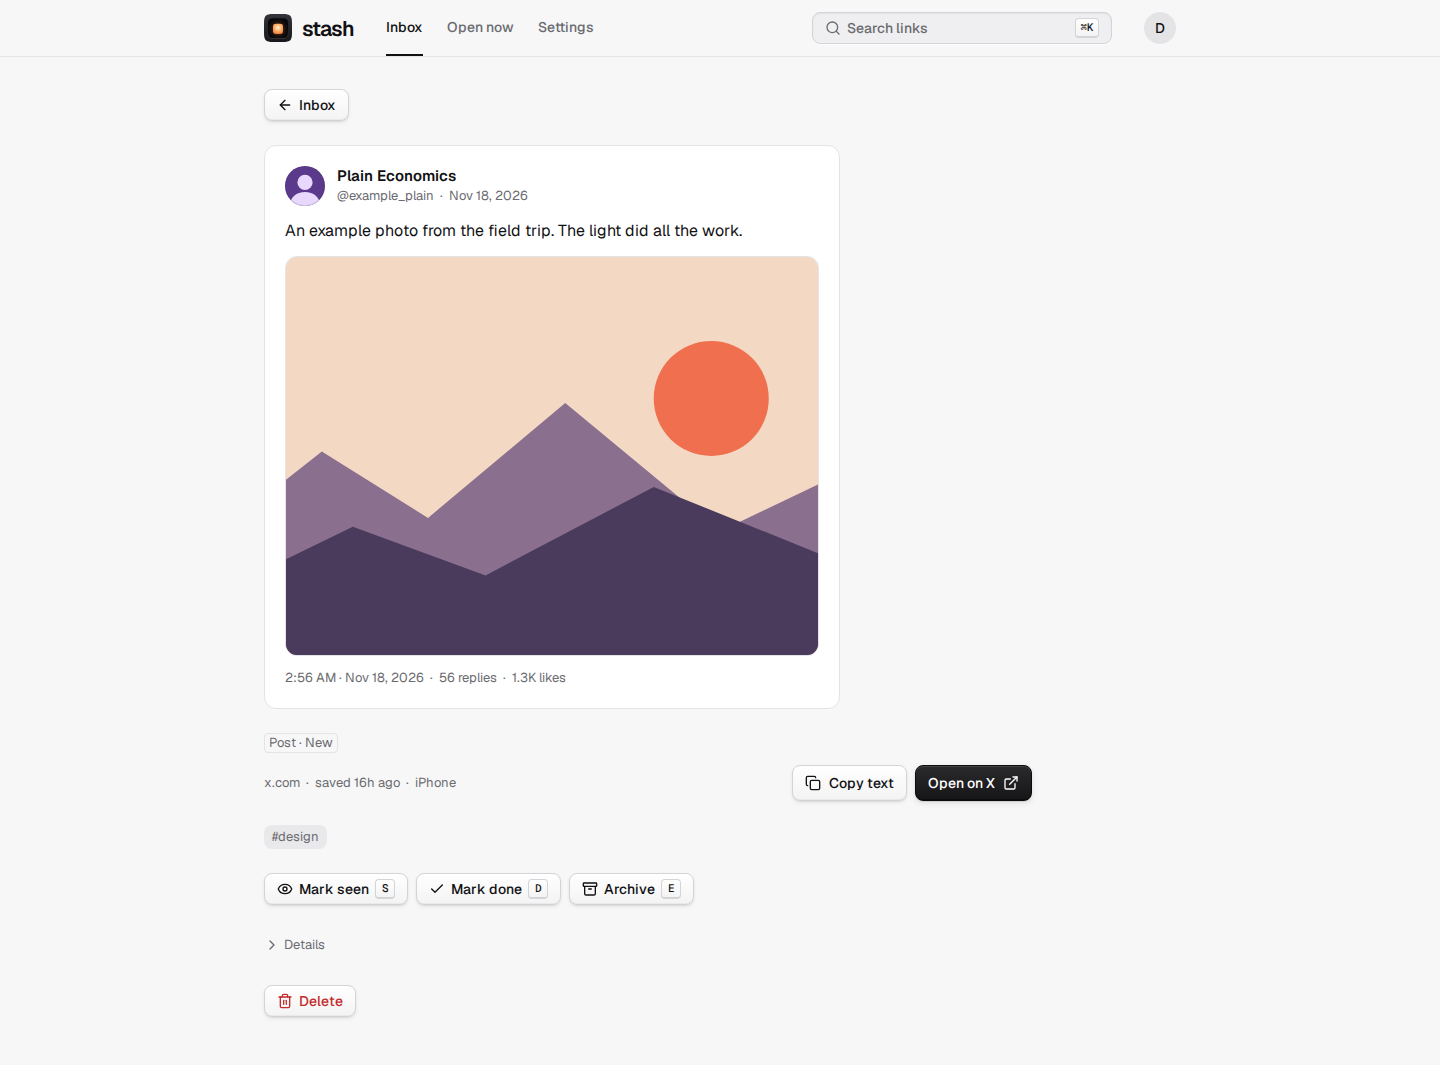
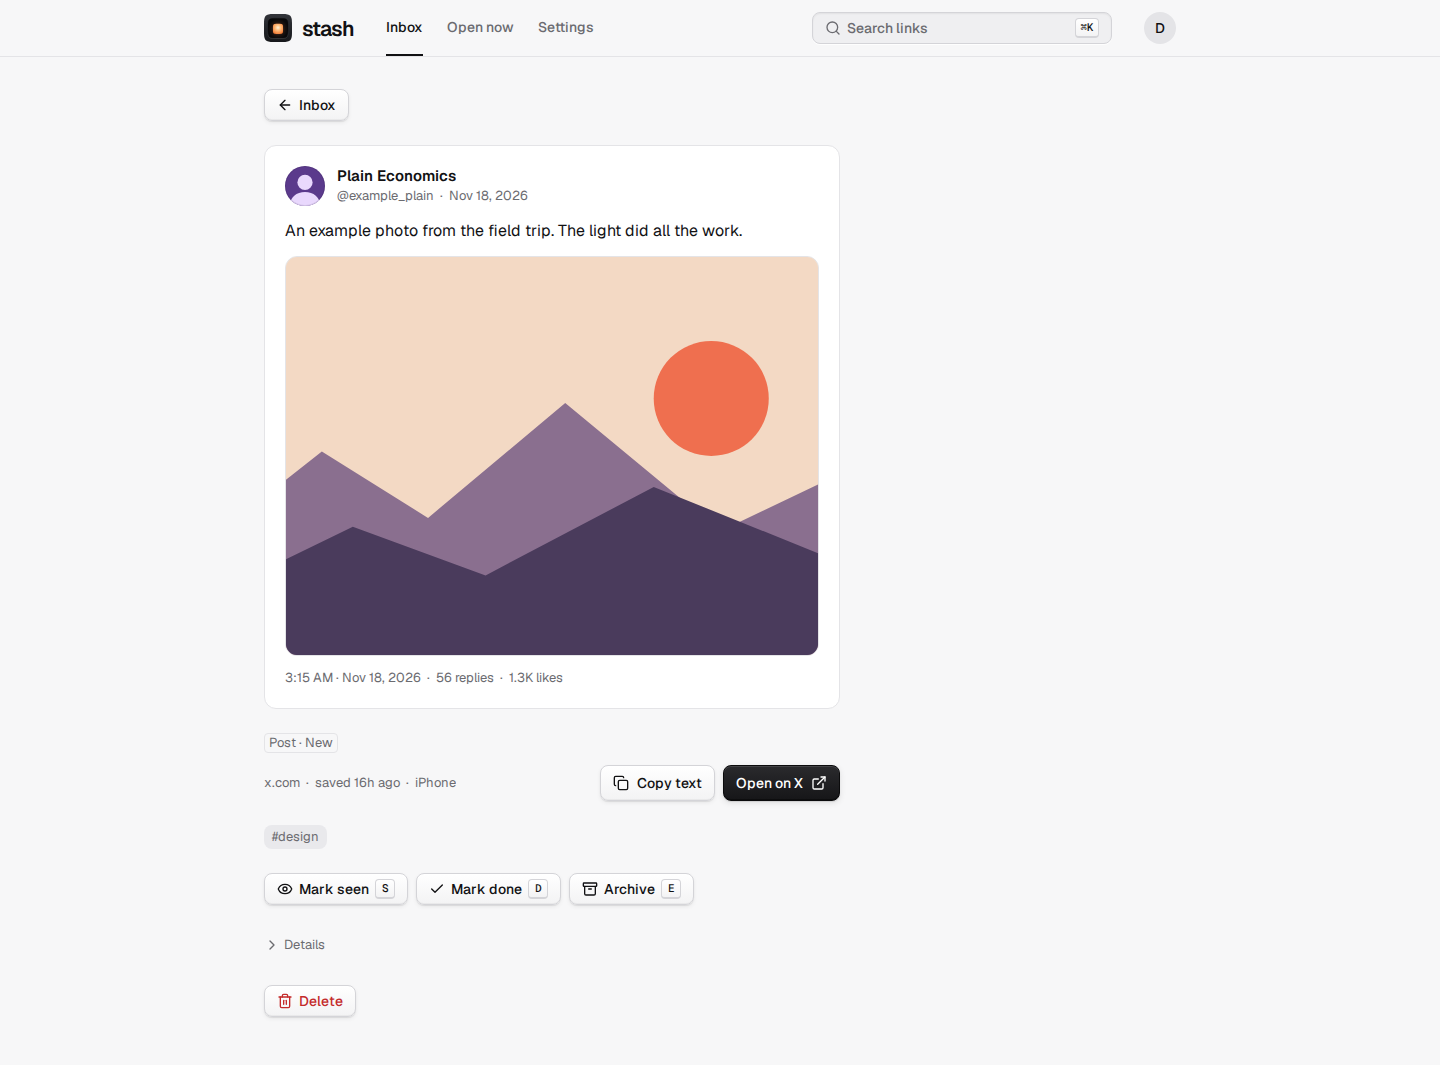
web, backend: sandbox the post video frame, review follow-ups (#170)
The video's srcdoc frame is sandboxed without allow-same-origin, so its document has an opaque
origin. A post row's unread dot is on its first line, the handle truncates before the name, and a
post page's actions end where its card does. A post saved as /i/status/<id> gets the handle's URL
as its dedupe key once the post is read. The list of X hosts lives once, in backend-links, and
has m.twitter.com.

Changed region(s): [[0.4062, 0.7127, 0.7188, 0.7746], [0.1875, 0.6197, 0.4062, 0.6507]]

diff --git a/packages/web/ui/src/media-row/media-row.vue b/packages/web/ui/src/media-row/media-row.vue
@@ -67,6 +67,9 @@ defineSlots<{
 // edges there. In the meta line only an item marked `data-shrink` (a channel, an author) gives
 // way: its shrink factor is so large that the first item (the host) stays whole until there is
 // nothing left of it, and only then truncates too.
+
+const metaLine =
+  "flex h-5 min-w-0 items-center overflow-hidden text-meta whitespace-nowrap text-muted-foreground [&>*]:shrink-0 [&>[data-shrink]]:min-w-0 [&>[data-shrink]]:shrink-[1000000] [&>[data-shrink]]:truncate [&>*+*]:before:mx-1.5 [&>*+*]:before:content-['·'] [&>*:first-child]:min-w-0 [&>*:first-child]:shrink [&>*:first-child]:truncate";
 </script>
 
 <template>
@@ -104,7 +107,7 @@ defineSlots<{
       "
     >
       <span
-        v-if="unread"
+        v-if="unread && !metaFirst"
         data-slot="media-row-unread"
         role="img"
         aria-label="Not yet seen"
@@ -112,14 +115,27 @@ defineSlots<{
       />
       <slot name="title" />
     </div>
+    <!-- A `metaFirst` row's first line is the meta line, so its dot is there, where every row's is. -->
     <div
+      v-if="metaFirst"
+      data-slot="media-row-meta-line"
+      class="col-start-2 row-start-1 flex h-5 min-w-0 items-center gap-2"
+    >
+      <span
+        v-if="unread"
+        data-slot="media-row-unread"
+        role="img"
+        aria-label="Not yet seen"
+        class="size-1.5 shrink-0 rounded-full bg-signal"
+      />
+      <div data-slot="media-row-meta" :class="cn(metaLine, 'flex-1')">
+        <slot name="meta" />
+      </div>
+    </div>
+    <div
+      v-else
       data-slot="media-row-meta"
-      :class="
-        cn(
-          'col-start-2 flex h-5 min-w-0 items-center overflow-hidden text-meta whitespace-nowrap text-muted-foreground [&>*]:shrink-0 [&>[data-shrink]]:min-w-0 [&>[data-shrink]]:shrink-[1000000] [&>[data-shrink]]:truncate [&>*+*]:before:mx-1.5 [&>*+*]:before:content-[\'·\'] [&>*:first-child]:min-w-0 [&>*:first-child]:shrink [&>*:first-child]:truncate',
-          metaFirst ? 'row-start-1' : 'row-start-2 self-start',
-        )
-      "
+      :class="cn(metaLine, 'col-start-2 row-start-2 self-start')"
     >
       <slot name="meta" />
     </div>

diff --git a/packages/web/ui/test/post.test.ts b/packages/web/ui/test/post.test.ts
@@ -53,7 +53,21 @@ describe("MediaRow for a post", () => {
     });
     expect(row.attributes("data-meta-first")).toBe("");
     expect(row.classes()).toContain("sm:grid-rows-[20px_20px_20px_24px]");
-    expect(row.find("[data-slot=media-row-meta]").classes()).toContain("row-start-1");
+    const first = row.find("[data-slot=media-row-meta-line]");
+    expect(first.classes()).toContain("row-start-1");
+    expect(first.find("[data-slot=media-row-meta]").text()).toBe("Author");
+    // Read: no dot. Unread: the dot is on this first line, as on every row.
+    expect(first.find("[data-slot=media-row-unread]").exists()).toBe(false);
+    const unread = mount(MediaRow, {
+      props: { metaFirst: true, unread: true },
+      slots: { title: "<a>Words</a>", meta: "<span>Author</span>" },
+    });
+    expect(
+      unread.find("[data-slot=media-row-meta-line] > [data-slot=media-row-unread]").exists(),
+    ).toBe(true);
+    expect(
+      unread.find("[data-slot=media-row-title-line] [data-slot=media-row-unread]").exists(),
+    ).toBe(false);
     const title = row.find("[data-slot=media-row-title-line]");
     expect(title.classes()).toEqual(
       expect.arrayContaining(["row-start-2", "sm:row-span-2", "sm:h-10"]),
@@ -224,7 +238,11 @@ describe("PostMedia", () => {
       "no-referrer",
     );
     await media.find("[data-slot=post-video-play]").trigger("click");
-    const srcdoc = media.find("[data-slot=post-video-player]").attributes("srcdoc") ?? "";
+    const frame = media.find("[data-slot=post-video-player]");
+    // An opaque origin: the frame's document cannot reach the app (no `allow-same-origin`).
+    expect(frame.attributes("sandbox")).toBe("allow-scripts");
+    expect(frame.attributes("allow")).toContain("fullscreen");
+    const srcdoc = frame.attributes("srcdoc") ?? "";
     expect(srcdoc).toContain('<meta name="referrer" content="no-referrer">');
     // The URL is an attribute value: its quotes and ampersands are escaped.
     expect(srcdoc).toContain('src="https://example.com/video.mp4?a=1&amp;b=&quot;2&quot;"');

diff --git a/packages/backend/links/src/save/canonicalize-url.ts b/packages/backend/links/src/save/canonicalize-url.ts
@@ -1,4 +1,6 @@
 import * as Link from "@stash/contracts-domain/link";
+import * as Option from "effect/Option";
+import * as XPostUrl from "./x-post-url.ts";
 
 // The canonical URL is the dedupe key (`links.canonical_url` is unique). The link keeps the URL it
 // was saved with, so canonicalization may drop anything that does not change what the page is.
@@ -50,31 +52,9 @@ const youtubeVideoId = (url: URL): string | undefined => {
     : undefined;
 };
 
-const xHosts = new Set([
-  "x.com",
-  "twitter.com",
-  "mobile.x.com",
-  "mobile.twitter.com",
-  "fxtwitter.com",
-  "vxtwitter.com",
-  "fixupx.com",
-  "fixvx.com",
-]);
-
-const xStatusPath = /^\/(?:([A-Za-z0-9_]{1,30})|i\/web)\/status(?:es)?\/(\d{1,25})(?:\/|$)/;
-
-/**
- * A post on X as `https://x.com/<handle>/status/<id>`, if this is a status URL on X, the old
- * twitter.com, a mobile host or an embed-fixing mirror. Handles don't differ by case.
- */
-const xPostUrl = (url: URL): string | undefined => {
-  if (!xHosts.has(url.hostname)) return undefined;
-  const match = xStatusPath.exec(url.pathname);
-  const id = match?.[2];
-  return id === undefined
-    ? undefined
-    : `https://x.com/${(match?.[1] ?? "i").toLowerCase()}/status/${id}`;
-};
+/** A post on X as `https://x.com/<handle>/status/<id>`, if this is a status URL (`XPostUrl`). */
+const xPostUrl = (url: URL): string | undefined =>
+  Option.getOrUndefined(Option.map(XPostUrl.target(url.href), XPostUrl.canonicalUrl));
 
 /** Hash routes (`#/path`, `#!/path`) address a page in a single-page app. Other fragments don't. */
 const isRouteFragment = (hash: string): boolean => hash.startsWith("#/") || hash.startsWith("#!");

diff --git a/packages/web/ui/src/post/post-video.vue b/packages/web/ui/src/post/post-video.vue
@@ -5,8 +5,11 @@ import * as PostMedia from "./post-media";
 
 // A post's video or GIF in its box: the poster (lazy, no referrer) with a play button, and after a
 // press the player in its place. Nothing of the video loads before that press. The player is a
-// frame whose document loads everything without a referrer (see `PostMedia.playerDocument`). A
-// video with no playable file is its poster alone.
+// frame whose document loads everything without a referrer (see `PostMedia.playerDocument`). The
+// frame is sandboxed without `allow-same-origin`: a `srcdoc` document would otherwise have this
+// page's origin, and its markup is built from a post's URLs. With an opaque origin it cannot reach
+// the app whatever it contains. `allow-scripts` is there only because a sandbox without it also
+// blocks `autoplay`; the document has no script. A video with no playable file is its poster alone.
 const props = defineProps<{ video: PostMedia.Video; label?: string | undefined }>();
 
 const playing = ref(false);
@@ -30,6 +33,7 @@ const name = computed(() => props.label ?? (props.video.kind === "gif" ? "GIF" :
       data-slot="post-video-player"
       :srcdoc="player"
       :title="`Playing ${name}`"
+      sandbox="allow-scripts"
       allow="autoplay; fullscreen; picture-in-picture"
       allowfullscreen
       referrerpolicy="no-referrer"

diff --git a/packages/backend/enrichment/src/enrich-link.ts b/packages/backend/enrichment/src/enrich-link.ts
@@ -19,7 +19,7 @@ import * as FetchContent from "./fetch-content.ts";
 import * as FetchXPost from "./fetch-x-post.ts";
 import * as JunkFilter from "./junk-filter.ts";
 import * as StoreText from "./store-text.ts";
-import * as XPostUrl from "./x-post-url.ts";
+import * as XPostUrl from "@stash/backend-links/x-post-url";
 
 // The enrichment pipeline for one link: fetch → classify → embed → store.
 //
@@ -183,11 +183,14 @@ export const enrichLink = (id: Link.LinkId): Effect.Effect<Outcome, EnrichError,
         Option.getOrNull,
       ),
       post: Option.getOrNull(Option.map(post, (p) => JSON.stringify(encodePost(p)))),
-      canonicalUrl: XPostUrl.target(link.url).pipe(
-        Option.map(XPostUrl.canonicalUrl),
-        Option.flatMap(decodeUrl),
-        Option.getOrNull,
-      ),
+      // The post's own address when it was read: a link saved as `/i/status/<id>` names no
+      // handle, and gets the handle's URL as its dedupe key once the handle is known.
+      canonicalUrl: XPostUrl.target(
+        Option.getOrElse(
+          Option.map(post, (p) => p.url),
+          () => link.url,
+        ),
+      ).pipe(Option.map(XPostUrl.canonicalUrl), Option.flatMap(decodeUrl), Option.getOrNull),
       tags: classification.tags,
       enrichedAt: DateTime.formatIso(now),
       metadataVersion: EnrichPolicy.metadataVersion,

diff --git a/packages/web/ui/src/post/post-byline.vue b/packages/web/ui/src/post/post-byline.vue
@@ -4,8 +4,8 @@ import Avatar from "../avatar/avatar.vue";
 
 // Who wrote a post: picture, name, a mark for a verified account, and the @handle.
 //
-// - `row`: one muted line for a `<MediaRow>`'s meta line, with a 16px picture. The name gives way
-//   first on a narrow row, then the handle.
+// - `row`: one muted line for a `<MediaRow>`'s meta line, with a 16px picture. On a narrow row the
+//   handle gives way first, down to nothing, and only then the name.
 // - `card`: the header of a `<PostCard>`: a 40px picture, the name over the handle, and whatever
 //   the `meta` slot adds after the handle (a date).
 // - `quote`: one line with a 24px picture, for a quoted post.
@@ -47,7 +47,9 @@ defineSlots<{
       aria-label="Verified"
       class="size-3.5 shrink-0 text-signal"
     />
-    <span data-slot="post-author-handle" class="min-w-0 shrink-[4] truncate">@{{ handle }}</span>
+    <span data-slot="post-author-handle" class="min-w-0 shrink-[1000000] truncate"
+      >@{{ handle }}</span
+    >
   </span>
   <div
     v-else

diff --git a/packages/backend/links/test/x-post-url.test.ts b/packages/backend/links/test/x-post-url.test.ts
@@ -1,6 +1,6 @@
 import { describe, expect, it } from "@effect/vitest";
 import * as Option from "effect/Option";
-import * as XPostUrl from "../src/x-post-url.ts";
+import * as XPostUrl from "../src/save/x-post-url.ts";
 
 describe("XPostUrl", () => {
   it.each([
@@ -8,6 +8,7 @@ describe("XPostUrl", () => {
     ["https://twitter.com/Example_Writer/status/1700000000000000001?s=20&t=abc", "Example_Writer"],
     ["https://www.twitter.com/example_writer/statuses/1700000000000000001", "example_writer"],
     ["https://mobile.twitter.com/example_writer/status/1700000000000000001", "example_writer"],
+    ["https://m.twitter.com/example_writer/status/1700000000000000001", "example_writer"],
     ["https://fxtwitter.com/example_writer/status/1700000000000000001/en", "example_writer"],
     ["https://vxtwitter.com/example_writer/status/1700000000000000001", "example_writer"],
     ["https://x.com/example_writer/status/1700000000000000001/photo/2", "example_writer"],

diff --git a/packages/backend/enrichment/test/enrich-x-post.test.ts b/packages/backend/enrichment/test/enrich-x-post.test.ts
@@ -188,6 +188,26 @@ describe("enrichLink: a post on X", () => {
     ),
   );
 
+  it.effect("gives a link saved without a handle the handle's URL once the post is read", () =>
+    Effect.gen(function* () {
+      yield* D1Database.Database.use((db) =>
+        db.exec(`INSERT INTO links (id, url, canonical_url) VALUES
+          ('nameless', 'https://x.com/i/status/${X.postId}', 'https://x.com/i/status/${X.postId}')`),
+      );
+      const id = Link.LinkId.make("nameless");
+      yield* EnrichLink.enrichLink(id);
+      expect((yield* stored(id)).canonicalUrl).toBe(postUrl);
+    }).pipe(
+      Effect.provide(
+        EnrichmentTestLayer.layer(
+          { [syndication]: { body: X.textPost, contentType: json } },
+          classification,
+          classification,
+        ),
+      ),
+    ),
+  );
+
   it.effect(
     "moves a link saved in an old form to the post's one URL, unless another link has it",
     () =>

diff --git a/packages/web/links/src/details/link-details-page.vue b/packages/web/links/src/details/link-details-page.vue
@@ -227,7 +227,8 @@ const leave = () => (back.history ? router.back() : void router.replace({ name: 
         />
       </template>
 
-      <header class="flex flex-col gap-3">
+      <!-- A post's lines and actions end where its card does. -->
+      <header :class="['flex flex-col gap-3', view.link.post !== undefined && 'max-w-xl']">
         <Badge variant="outline" data-slot="link-kind">{{ kind(view.link) }}</Badge>
         <h1
           :class="view.link.post === undefined ? 'line-clamp-3 text-title break-words' : 'sr-only'"

diff --git a/apps/api/test/d1-schema.test.ts b/apps/api/test/d1-schema.test.ts
@@ -449,6 +449,7 @@ describe("migration 0009: posts on X (#170)", () => {
       twitter: "twitter.com",
       "mobile-x": "mobile.x.com",
       "mobile-twitter": "mobile.twitter.com",
+      "m-twitter": "m.twitter.com",
       fx: "fxtwitter.com",
       vx: "vxtwitter.com",
       fixupx: "fixupx.com",
@@ -513,6 +514,7 @@ describe("migration 0009: posts on X (#170)", () => {
       "twitter",
       "mobile-x",
       "mobile-twitter",
+      "m-twitter",
       "fx",
       "vx",
       "fixupx",

diff --git a/packages/backend/enrichment/src/fetch-x-post.ts b/packages/backend/enrichment/src/fetch-x-post.ts
@@ -5,7 +5,7 @@ import * as Option from "effect/Option";
 import * as ContentHttp from "./content-http.ts";
 import * as ContentText from "./content-text.ts";
 import * as ParseXPost from "./parse-x-post.ts";
-import * as XPostUrl from "./x-post-url.ts";
+import * as XPostUrl from "@stash/backend-links/x-post-url";
 
 // A post on X, read without x.com itself (its pages are an app shell behind a login wall):
 //

diff --git a/packages/backend/enrichment/src/fetch-content.ts b/packages/backend/enrichment/src/fetch-content.ts
@@ -6,7 +6,7 @@ import type * as ContentText from "./content-text.ts";
 import * as FetchPageText from "./fetch-page-text.ts";
 import * as FetchXPost from "./fetch-x-post.ts";
 import * as FetchYoutubeContent from "./fetch-youtube-content.ts";
-import * as XPostUrl from "./x-post-url.ts";
+import * as XPostUrl from "@stash/backend-links/x-post-url";
 
 type Fetched = Effect.Effect<
   ContentText.ContentText,
